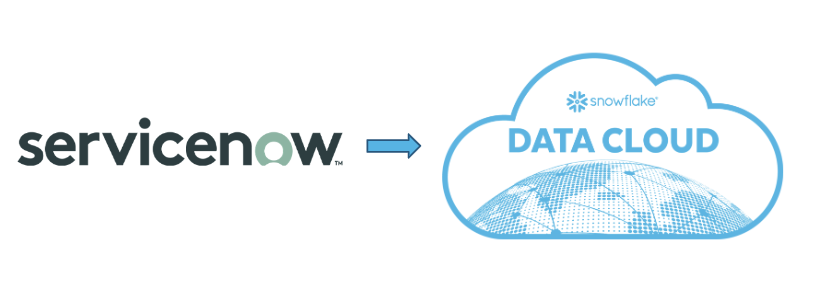
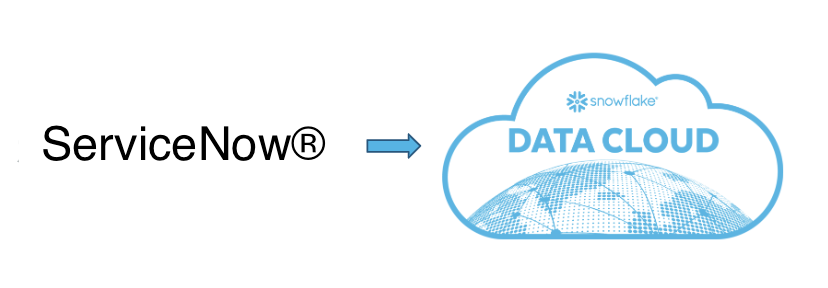
Ready to publish

Changed region(s): [[0.0, 0.4062, 0.4227, 0.5938]]

diff --git a/site/sfguides/src/servicenow_to_snowflake_connector/servicenow_to_snowflake_connector.md b/site/sfguides/src/servicenow_to_snowflake_connector/servicenow_to_snowflake_connector.md
@@ -12,12 +12,12 @@ tags: Connectors, Data Engineering, Servicenow
 ## Overview 
 Duration: 1
 
-Use this quickstart lab to configure and understand the Snowflake Connector for ServiceNow using the Snowsight wizard, select some tables, ingest data, and run an example query. This quickstart is not meant to be exhaustive. Please check the [Snowflake Connector for ServiceNow documentation](https://other-docs.snowflake.com/en/connectors/servicenow/servicenow-index.html) for full functionality and limitations.
+Use this quickstart lab to configure and understand the Snowflake Connector for ServiceNow® using the Snowsight wizard, select some tables, ingest data, and run an example query. This quickstart is not meant to be exhaustive. Please check the [Snowflake Connector for ServiceNow documentation](https://other-docs.snowflake.com/en/connectors/servicenow/servicenow-index.html) for full functionality and limitations.
 
 ![now](assets/first.png)
 
 > aside positive
-> Note: This quickstart assumes you do not have a ServiceNow account, so it guides you through the steps of creating a developer account. Of course, if you do have a Servicenow account, please feel free to try it out, with the caveat that, at the time of writing, the connector is in public preview and should not be used for production. 
+> Note: This quickstart assumes you do not have a ServiceNow account, so it guides you through the steps of creating a developer account. Of course, if you do have a Servicenow account, please feel free to try it out, with the caveat that, at the time of this writing, the connector is in public preview and therefore the [preview terms](https://www.snowflake.com/legal/preview-terms-of-service/) apply. 
 ### Prerequisites
 - ServiceNow account with administrator's rights.
 - ORGADMIN rights to Accept the Terms of Service in the Snowflake Marketplace.
@@ -44,7 +44,7 @@ If you do not want to test this connector on your ServiceNow account, no problem
 1. Log on to the developer website with your newly created user and select **Create an Instance**. 
 1. Choose an instance type. You receive an email with your instance URL, and admin user and password. 
 
-Deployment is usually pretty quick, around five minutes. But, while you wait let's go to the next step and configure Snowflake!
+Deployment is usually pretty quick, around five minutes. But, while you wait, let's go to the next step and configure Snowflake!
 ## Create and set up the Snowflake Account
 
 ### Create the Snowflake Account
@@ -63,7 +63,7 @@ You'll need some compute for the connector, so let's set up a virtual warehouse 
 
 Change to the **accountadmin** role.
 1. Navigate to Admin -> Warehouses and select **+ Warehouse**. 
-2. Name the  vitural warehouse **SERVICENOW_CONNECTOR_WH**, size XS, and, leaving the defaults, select **Create Warehouse**. 
+2. Name the  virtual warehouse **SERVICENOW_CONNECTOR_WH**, size XS, and, leaving the defaults, select **Create Warehouse**. 
 
 ### Install the ServiceNow connector
 Duration: 1
@@ -101,7 +101,7 @@ Duration: 1
 Launch the Snowflake Connector for ServiceNow from the **Marketplace** -> **Snowflake Connector for ServiceNow**.
 1. Select **Manage**.
 1. Select **Connect**. 
-1. Fill in the ServicNow instance details. This is the first part of the ServiceNow URL for your ServiceNow account, **without** the trailing *service-now.com*.
+1. Fill in the ServiceNow instance details. This is the first part of the ServiceNow URL for your ServiceNow account, **without** the trailing *service-now.com*.
 1. Select **OAuth2** for the Authentication method.
 1. Copy the redirect URL. You will need it in the next section.
 
@@ -242,7 +242,7 @@ Now that you have ingested some data, let's create the **servicenow_reader_role*
 ```SQL
 USE ROLE accountadmin;
 USE DATABASE SERVICENOW_DEST_DB;
-CREATE ROLE IF NOT EXISTS servicenow_reader_role IF NOT EXISTS;
+CREATE ROLE IF NOT EXISTS servicenow_reader_role;
 GRANT USAGE ON DATABASE SERVICENOW_DEST_DB TO ROLE servicenow_reader_role;
 GRANT USAGE ON SCHEMA DEST_SCHEMA TO ROLE servicenow_reader_role; 
 GRANT SELECT ON FUTURE TABLES IN SCHEMA DEST_SCHEMA TO ROLE servicenow_reader_role;
@@ -321,7 +321,7 @@ ORDER BY
 If you would like to monitor errors, run stats, connector stats, enabled tables, you can set up a ServiceNow monitoring role that allows access to the views in the connector database.  For example, run the following in a worksheet (and then use the role):
 ```SQL
 USE ROLE accountadmin;
-CREATE ROLE IF NOT EXISTS servicenow_monitor_role ;
+CREATE ROLE IF NOT EXISTS servicenow_monitor_role;
 GRANT IMPORTED PRIVILEGES ON DATABASE SNOWFLAKE_CONNECTOR_FOR_SERVICENOW TO ROLE servicenow_monitor_role;
 GRANT USAGE ON WAREHOUSE SERVICENOW_WAREHOUSE TO ROLE servicenow_monitor_role;
 ```
